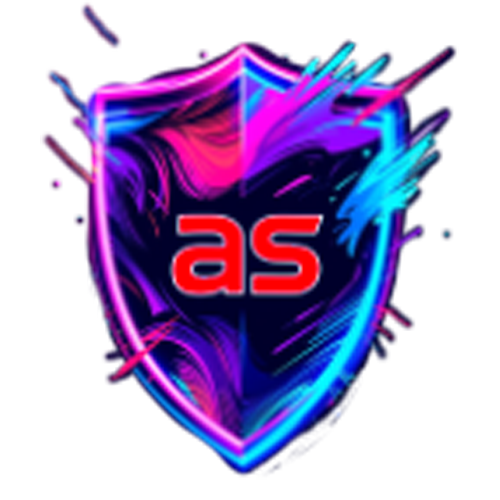
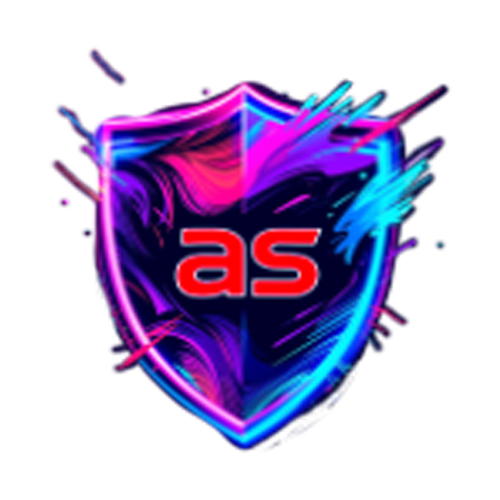
Redimencionado de img

diff --git a/app.js b/app.js
@@ -46,7 +46,7 @@ function displayTeams(teams) {
     // Lista de imágenes disponibles
     const imagePaths = [
         'img/team1.webp',
-        'img/team2.png'
+        'img/team2.webp'
     ];
 
     // Mezclar aleatoriamente la lista de imágenes
